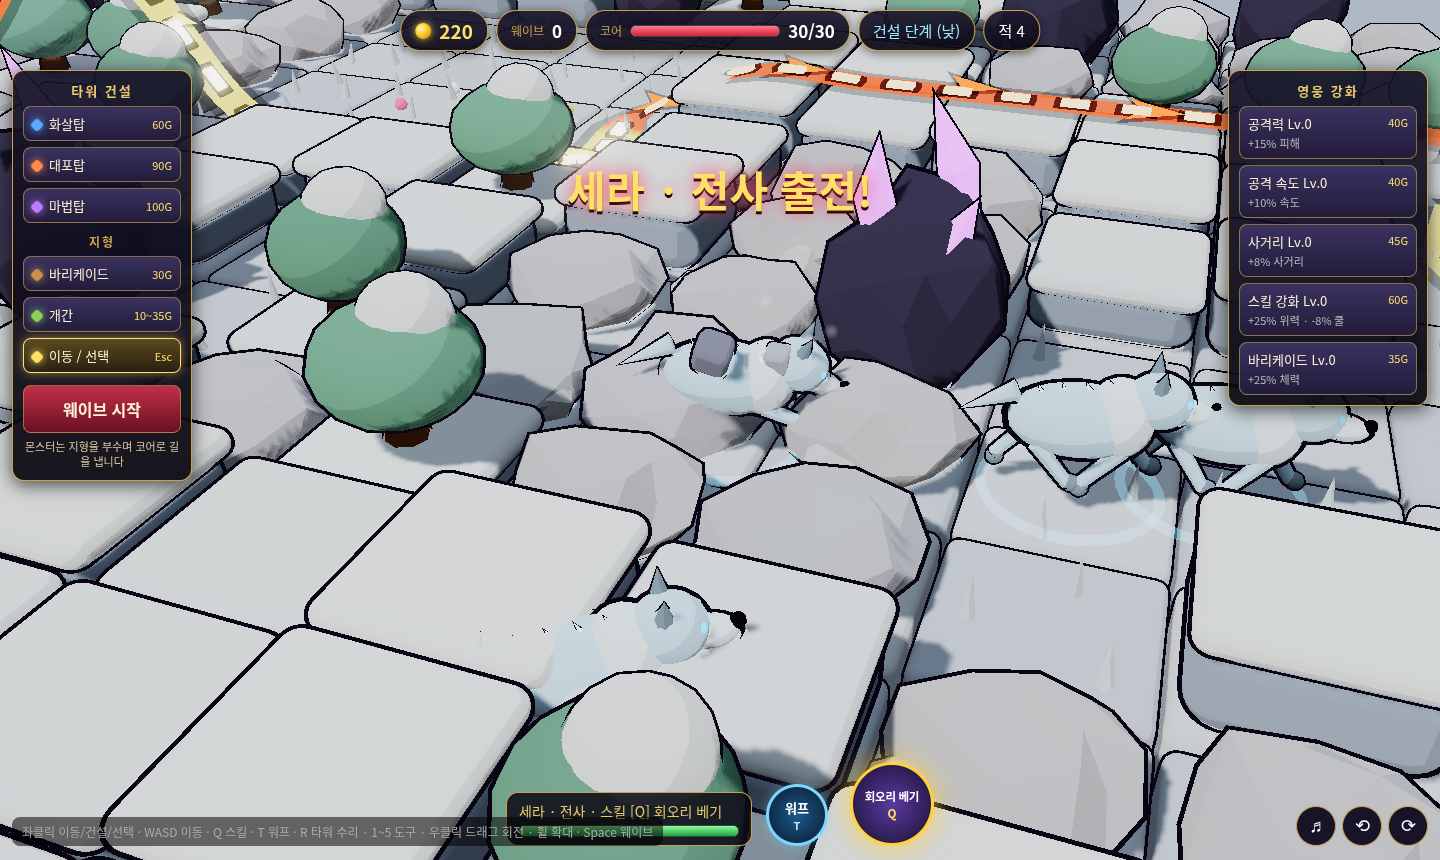
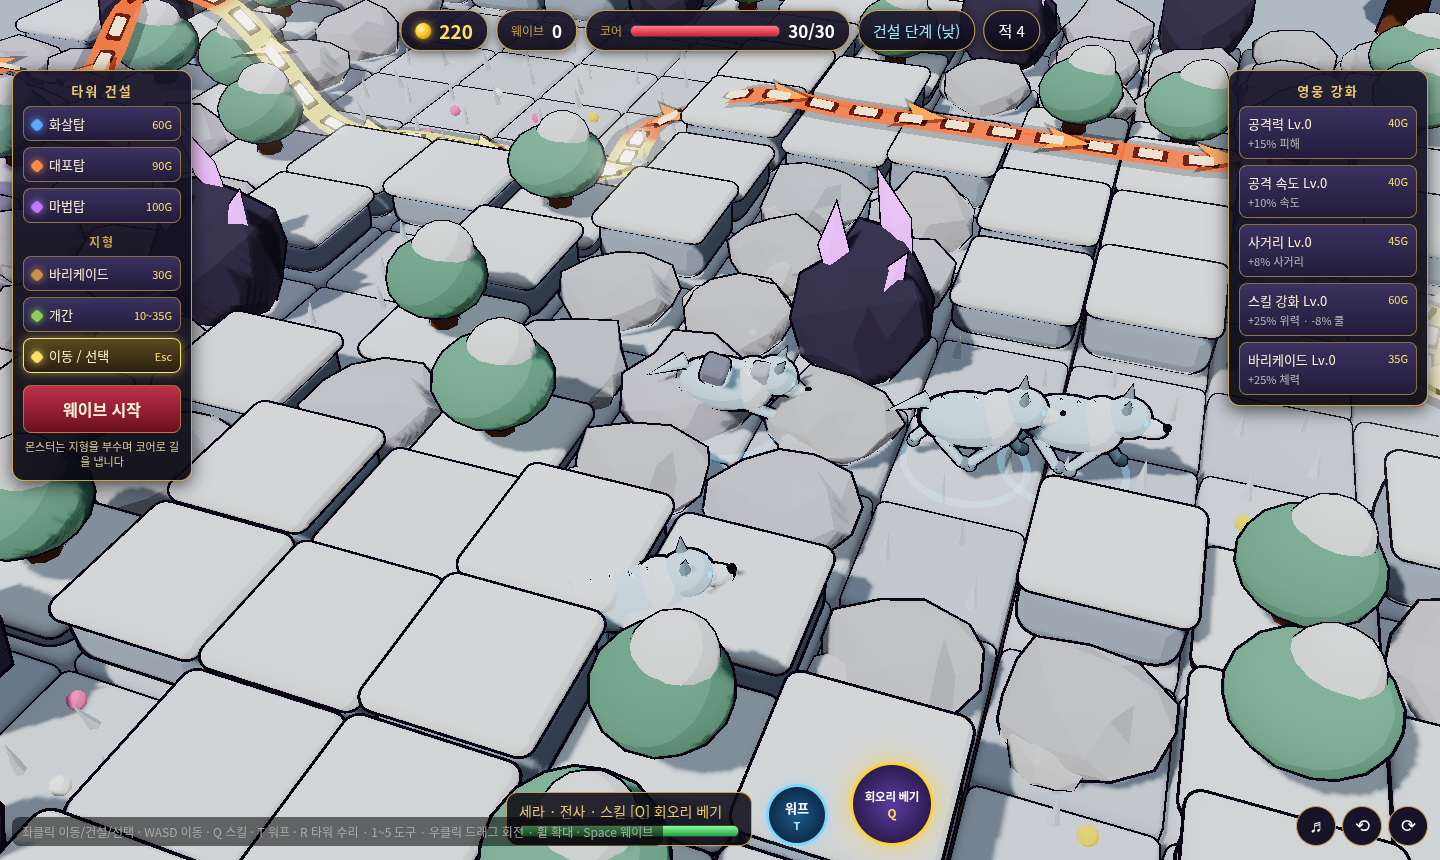
몬스터 다양성: 타워 pop 애니메이션 줄 주석에 묻힌 버그 수정, 스크린샷 스크립트(영웅 치움·배너 숨김·카메라) 갱신, 설원 라인업 다시 촬영

diff --git a/src/world/towers.js b/src/world/towers.js
@@ -103,7 +103,7 @@ function enemyAim(e) { return e.g.position.clone().setY(e.E.fly ? e.m.inner.posi
 function updTowers(dt) {
   if (G.grow) updGrowFx(dt);
   for (const tw of G.towers) {
-    const D = TOWERS[tw.type], L = tw.lvl - 1, m = tw.m, p = m.g.position, S = tw.S, B = tw.branch ? BRANCH[tw.type][tw.branch] : null; if (tw.deco) updDeco(tw, dt); tw.cd -= tw.rootT > 0 || tw.frostT > 0 || tw.chillT > G.t ? dt * towerRateK(tw) : dt; // 챕터 몬스터 디버프: 속박(정지)·빙결·한기 tw.pop = Math.min(1, tw.pop + dt * 3);
+    const D = TOWERS[tw.type], L = tw.lvl - 1, m = tw.m, p = m.g.position, S = tw.S, B = tw.branch ? BRANCH[tw.type][tw.branch] : null; if (tw.deco) updDeco(tw, dt); tw.cd -= tw.rootT > 0 || tw.frostT > 0 || tw.chillT > G.t ? dt * towerRateK(tw) : dt; /* 챕터 몬스터 디버프: 속박(정지)·빙결·한기 */ tw.pop = Math.min(1, tw.pop + dt * 3);
     const s = tw.pop < 1 ? 1 + Math.sin(tw.pop * Math.PI) * .25 : 1; m.g.scale.set(s, tw.pop < 1 ? .4 + tw.pop * .6 : 1, s);
     if (m.anim.crys) { m.head.position.y = m.anim.baseY + Math.sin(G.t * 2.4 + tw.c) * .15; m.anim.crys.rotation.y += dt * 1.6; m.anim.rings.forEach((r, k) => { r.rotation.z += dt * (1.2 + k * .7) * (k % 2 ? -1 : 1); }); }
     if (m.anim.flag) m.anim.flag.rotation.y = Math.sin(G.t * 5 + tw.c) * .4; if (m.anim.gem) m.anim.gem.rotation.y += dt * 2;

diff --git a/tests/roster_shots.py b/tests/roster_shots.py
@@ -9,7 +9,7 @@ from regress import serve, ARGS, HELP, Q
 from roster import PRE
 from playwright.sync_api import sync_playwright
 OUT = os.path.join(os.path.dirname(os.path.dirname(os.path.abspath(__file__))), 'shots', 'monsters'); os.makedirs(OUT, exist_ok=True)
-HIDE = "()=>{ document.querySelectorAll('#note').forEach(e=>e.classList.add('hidden')); }"
+HIDE = "()=>{ document.querySelectorAll('#note').forEach(e=>e.classList.add('hidden')); document.getElementById('banner').classList.remove('show'); }"
 BATTLE = r"""([wave, extra])=>{ R_.freeHero(); G.coreHp = G.coreMax = 1e6; G.gold = 3000; const used = [];
   for (const [type, i] of [['arrow', 5], ['cannon', 9], ['magic', 13], ['arrow', 17]]) { const s = T_.grassNearRoute(i, 2, used); if (!s) continue; used.push(s.join(',')); G.build(s[0], s[1], type); }
   G.phase = 'build'; G.wave = wave - 1; G.startWave(); G.spawnQ.unshift(...extra); for (let k = 0; k < 26; k++) G.sim(1); for (const tw of G.towers) tw.cd = Math.max(tw.cd, 0); G.cam.r = 44; G.cam.phi = .86; return [...new Set(G.enemies.map(e => e.type))]; }"""
@@ -27,7 +27,7 @@ def endless_mix(pg): return pg.evaluate(BATTLE, [12, ['yeti', 'treant', 'wisp', 
 def ab_root(pg):
     r = pg.evaluate(r"""()=>{ const s = R_.grass(); const tw = R_.tower('arrow', s); const t2 = G.tileAt(s[0] + 1, s[1]).t === 0 ? R_.tower('magic', [s[0] + 1, s[1]]) : null; const [x, z] = R_.xz(tw, 1.6, 3.2); const t = R_.at('treant', x, z); t.hp = t.max = 1e9;
       R_.runUntil(() => tw.rootT > 0, 8); G.sim(.35); t.g.rotation.y = Math.atan2(-1.6, -3.2); return R_.xz(tw, .8, 1.6); }""")
-    close(pg, *r, r=12); return r
+    close(pg, *r, r=17, phi=.95); return r
 @shot
 def ab_heal(pg):
     r = pg.evaluate(r"""()=>{ const [x, z] = G.tileXZ(9, 8); const m = R_.at('mushroom', x, z); const L = [R_.at('goblin', x + 1.6, z + .6), R_.at('grunt', x - 1.4, z + 1), R_.at('wolf', x + .4, z + 1.8)]; L.forEach(e => e.hp = e.max * .4); m.hp = m.max * .7;
@@ -40,7 +40,7 @@ def ab_split(pg):
 @shot
 def ab_pack(pg):
     r = pg.evaluate(r"""()=>{ const [x, z] = G.tileXZ(9, 8); [0, 1, 2].forEach(i => { const w = R_.at('icewolf', x + i * 1.1, z + (i % 2) * .7, false); w.g.rotation.y = 1.4; }); const lone = R_.at('icewolf', x + 1, z + 4.5); lone.g.rotation.y = 1.4; G.sim(.5); return [x + 1, z + 1.6]; }""")
-    close(pg, *r, r=11); return r
+    close(pg, *r, r=16, phi=.9); return r
 @shot
 def ab_frost(pg):
     r = pg.evaluate(r"""()=>{ const s = R_.grass(); const tw = R_.tower('cannon', s); const tw2 = R_.tower('arrow', [s[0] + 2, s[1]]) ; const [x, z] = R_.xz(tw, 2.2, 2.6); const y = R_.at('yeti', x, z); y.hp = y.max = 1e9; y.abT.snowball = .3;
@@ -68,7 +68,7 @@ with sync_playwright() as pw:
     for n, f in SHOTS.items():
         if only and n not in only: continue
         pg = b.new_page(viewport={'width': 1440, 'height': 860}); pg.on('console', lambda m: m.type == 'error' and errs.append(m.text[:200])); pg.on('pageerror', lambda x: errs.append('PE ' + str(x)[:300]))
-        st = STAGE_OF[n]; pg.goto(url + Q + (f'&stage={st}' if st else '')); pg.wait_for_function('()=>window.G&&G.ready', timeout=120000); pg.evaluate(HELP); pg.evaluate("()=>G.choose('warrior')"); pg.evaluate(PRE)
+        st = STAGE_OF[n]; pg.goto(url + Q + (f'&stage={st}' if st else '')); pg.wait_for_function('()=>window.G&&G.ready', timeout=120000); pg.evaluate(HELP); pg.evaluate("()=>G.choose('warrior')"); pg.evaluate(PRE); pg.evaluate('()=>R_.freeHero()')
         r = f(pg)
         if n != 'popup': pg.evaluate(HIDE)
         pg.wait_for_timeout(900); pg.screenshot(path=os.path.join(OUT, n + '.png')); print(n, r, flush=True); pg.close()
